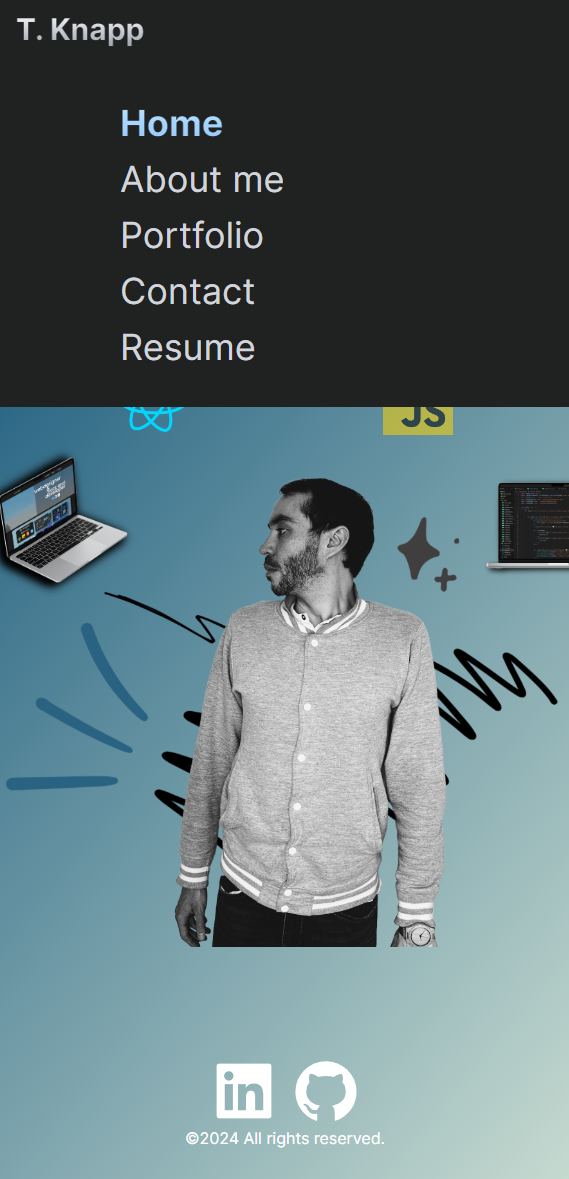
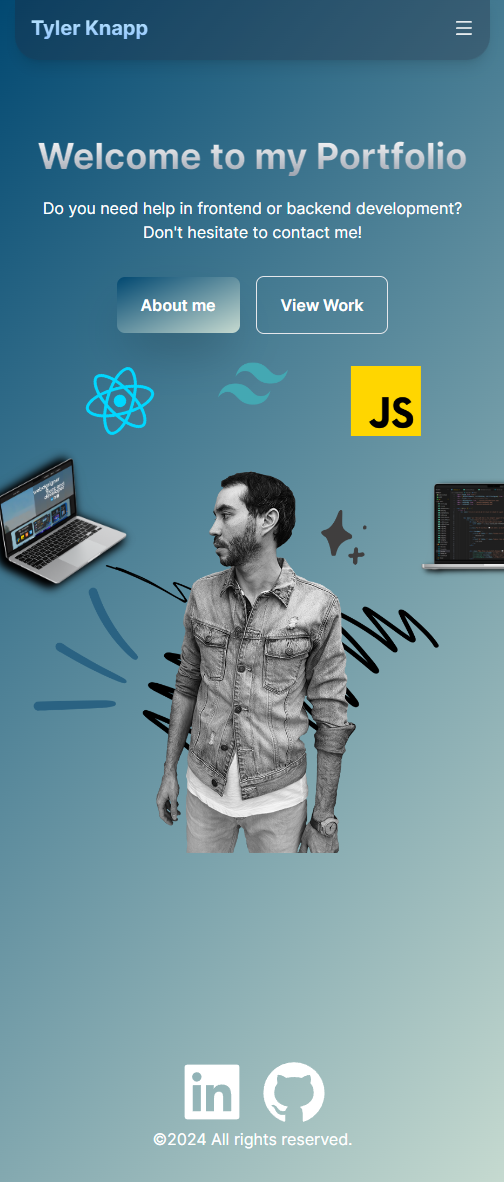
Updated Hero section with photo

diff --git a/src/components/Hero.jsx b/src/components/Hero.jsx
@@ -49,7 +49,7 @@ const Hero = () => {
       <figure className="relative bottom-0 z-10 flex mx-auto justify-center">
         <img className="left-[-20px] top-[-20px] sm:left-20 sm:top-[-200px] absolute block w-auto h-[150px] sm:h-[500px]" src="/assets/notebookL_1.png" alt="Lenovo Laptop" />
         <img className="absolute sm:relative w-auto bottom-[-110px] right-[-70px] sm:bottom-0 sm:right-0 h-[100px] sm:h-[380px]" src="/assets/notebookM.png" alt="Macbook Laptop" />
-        <img className="right-0 sm:bottom-0 absolute block h-auto w-[800px] sm:w-[800px]" src="/assets/ProPicB5.png" alt="Portfolio Photo 1" />
+        <img className="right-0 sm:bottom-0 absolute block h-auto w-[800px] sm:w-[900px] " src="assets/PortfolioPicB&W.png" alt="Portfolio Photo 1" />
 
       </figure>
 
